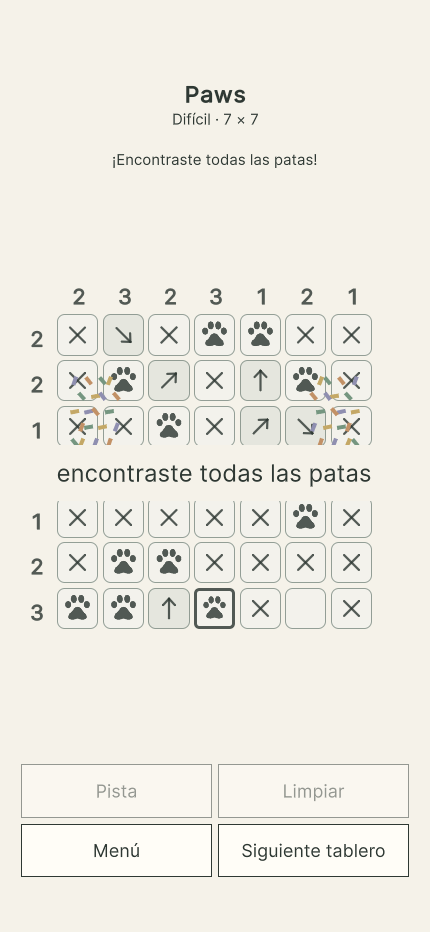
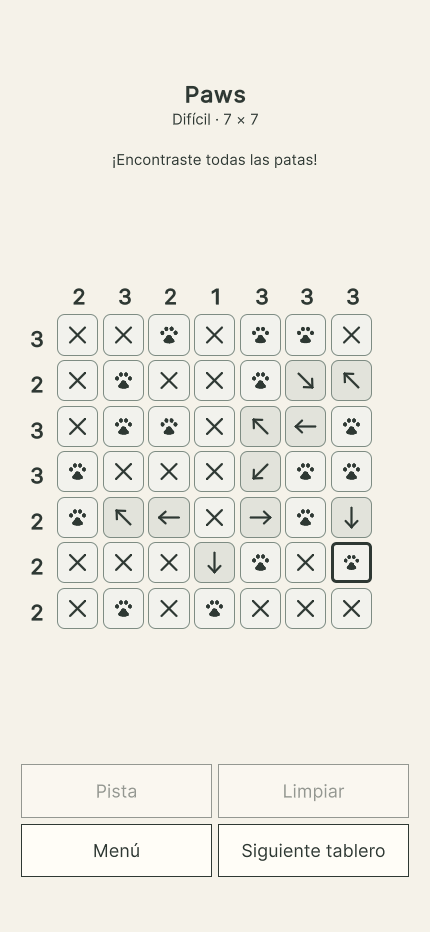
fix(ui): soften and shrink paw artwork (#53)

diff --git a/UnityProject/Assets/CatsAndArrows/UI/BoardSymbolElement.cs b/UnityProject/Assets/CatsAndArrows/UI/BoardSymbolElement.cs
@@ -62,17 +62,19 @@ namespace CatsAndArrows.UI
                     Line(tip, tip - vector * size * .16f - side * size * .15f);
                     break;
                 case BoardCellKind.Cat:
-                    // Issue #53: one solid pad and four separated toes, readable at phone cell sizes.
-                    painter.BeginPath(); painter.MoveTo(Point(0, -.04f));
-                    painter.BezierCurveTo(Point(.09f, -.04f), Point(.12f, .06f), Point(.20f, .13f));
-                    painter.BezierCurveTo(Point(.31f, .28f), Point(.14f, .32f), Point(0, .25f));
-                    painter.BezierCurveTo(Point(-.14f, .32f), Point(-.31f, .28f), Point(-.20f, .13f));
-                    painter.BezierCurveTo(Point(-.12f, .06f), Point(-.09f, -.04f), Point(0, -.04f));
+                    // Issue #53: a lighter paw, about one third smaller and centered in the cell.
+                    size *= .69f;
+                    center.y += size * .0225f;
+                    painter.BeginPath(); painter.MoveTo(Point(0, -.025f));
+                    painter.BezierCurveTo(Point(.09f, -.025f), Point(.105f, .065f), Point(.17f, .13f));
+                    painter.BezierCurveTo(Point(.25f, .24f), Point(.13f, .28f), Point(0, .28f));
+                    painter.BezierCurveTo(Point(-.13f, .28f), Point(-.25f, .24f), Point(-.17f, .13f));
+                    painter.BezierCurveTo(Point(-.105f, .065f), Point(-.09f, -.025f), Point(0, -.025f));
                     painter.ClosePath(); painter.Fill();
-                    Toe(-.24f, -.10f, .075f, .09f);
-                    Toe(-.095f, -.245f, .075f, .10f);
-                    Toe(.095f, -.245f, .075f, .10f);
-                    Toe(.24f, -.10f, .075f, .09f);
+                    Toe(-.24f, -.10f, .07f, .08f);
+                    Toe(-.095f, -.245f, .07f, .08f);
+                    Toe(.095f, -.245f, .07f, .08f);
+                    Toe(.24f, -.10f, .07f, .08f);
                     break;
                 case BoardCellKind.Protected:
                     painter.lineWidth = Mathf.Max(1.5f, size * .036f);
